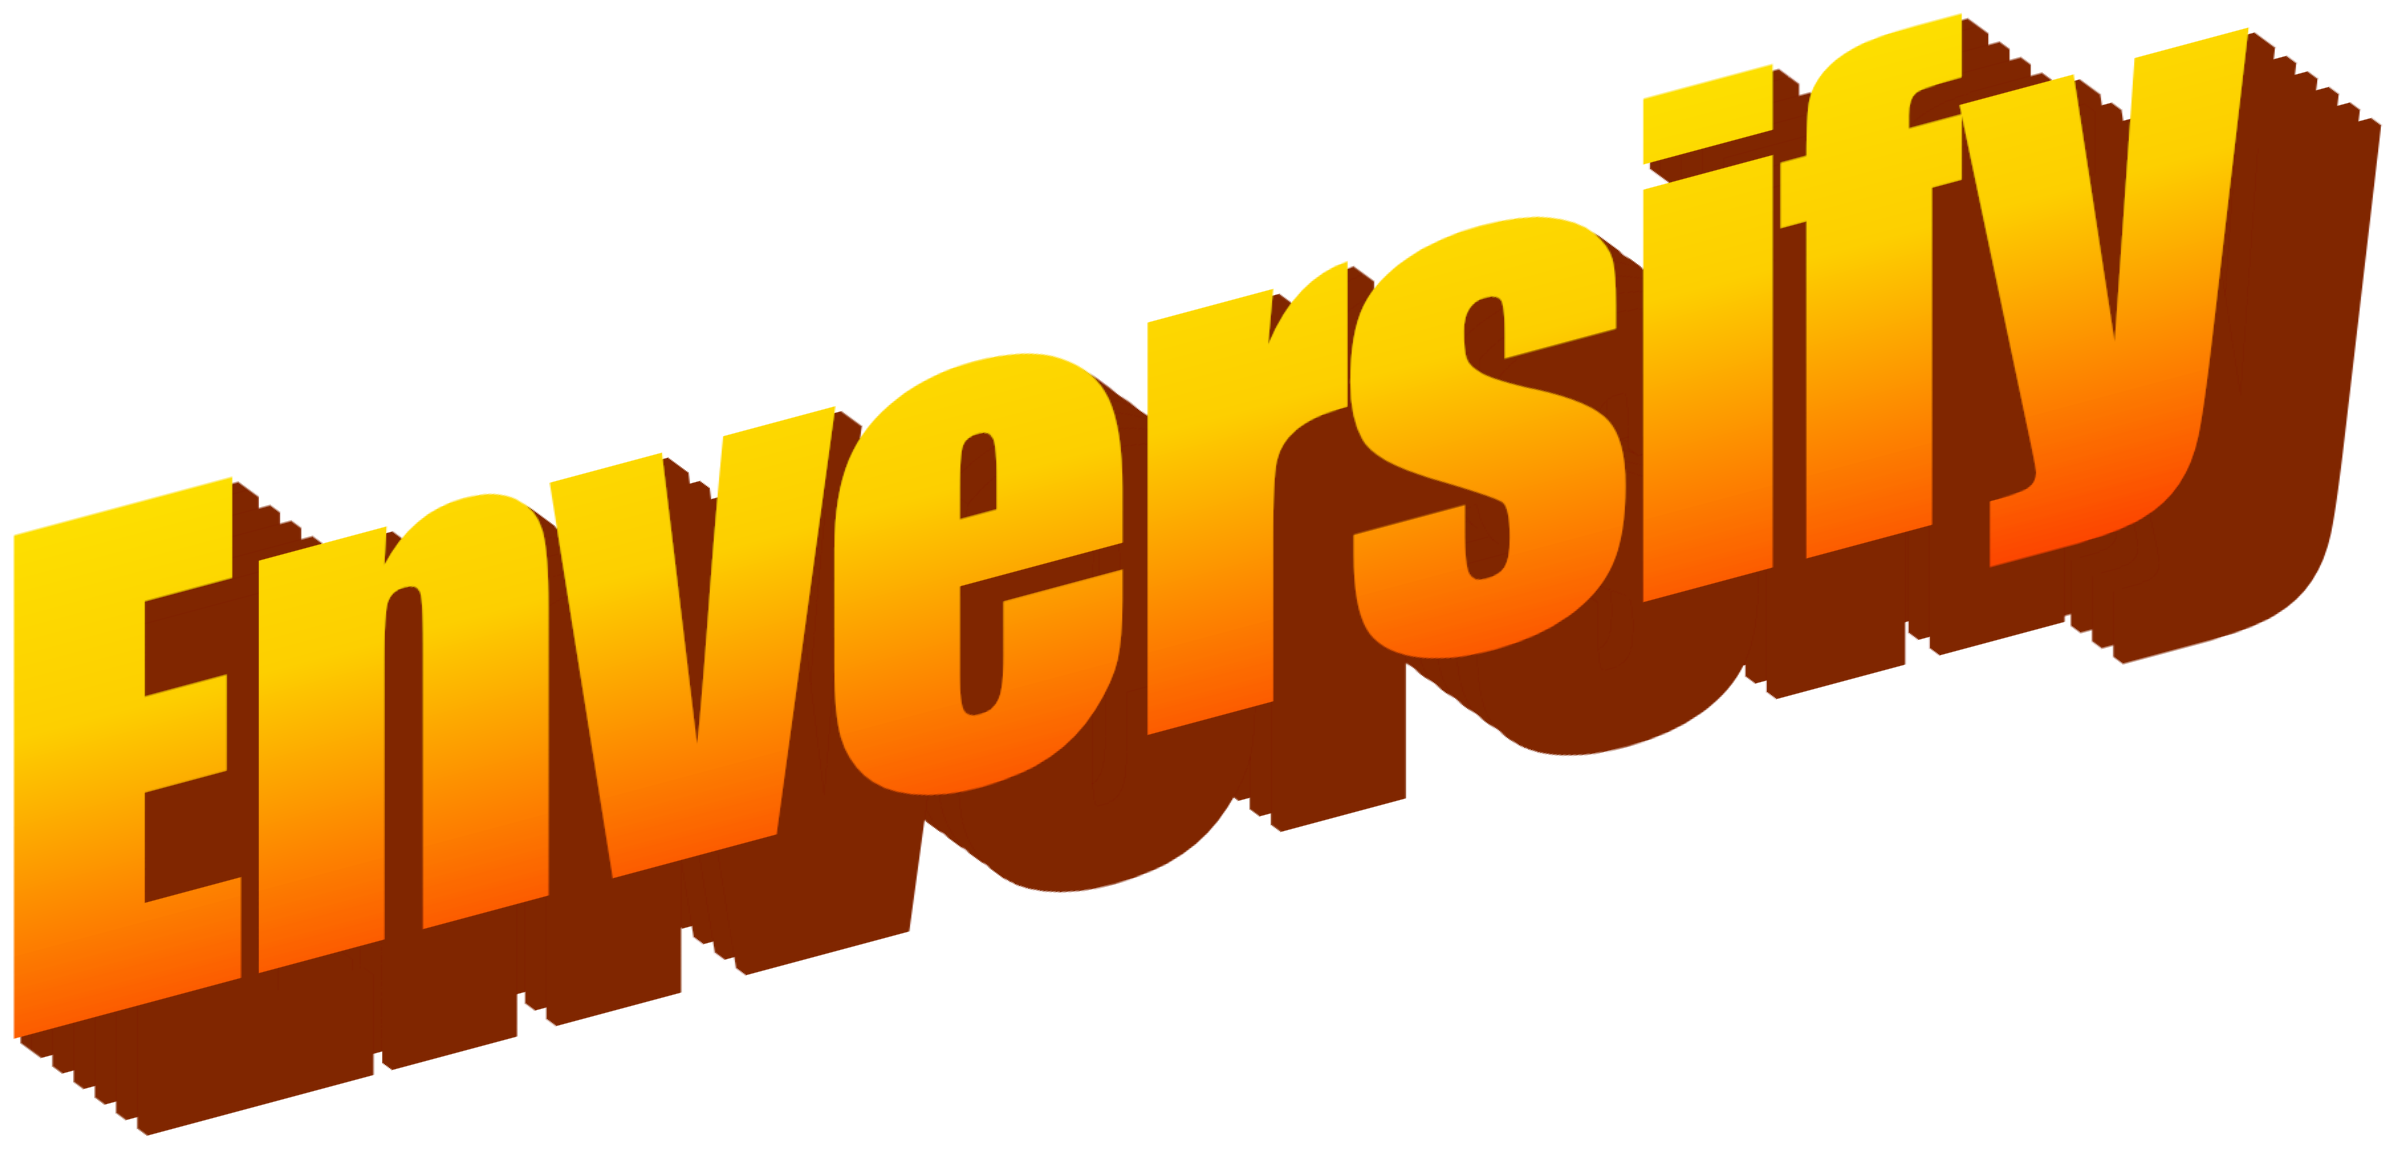
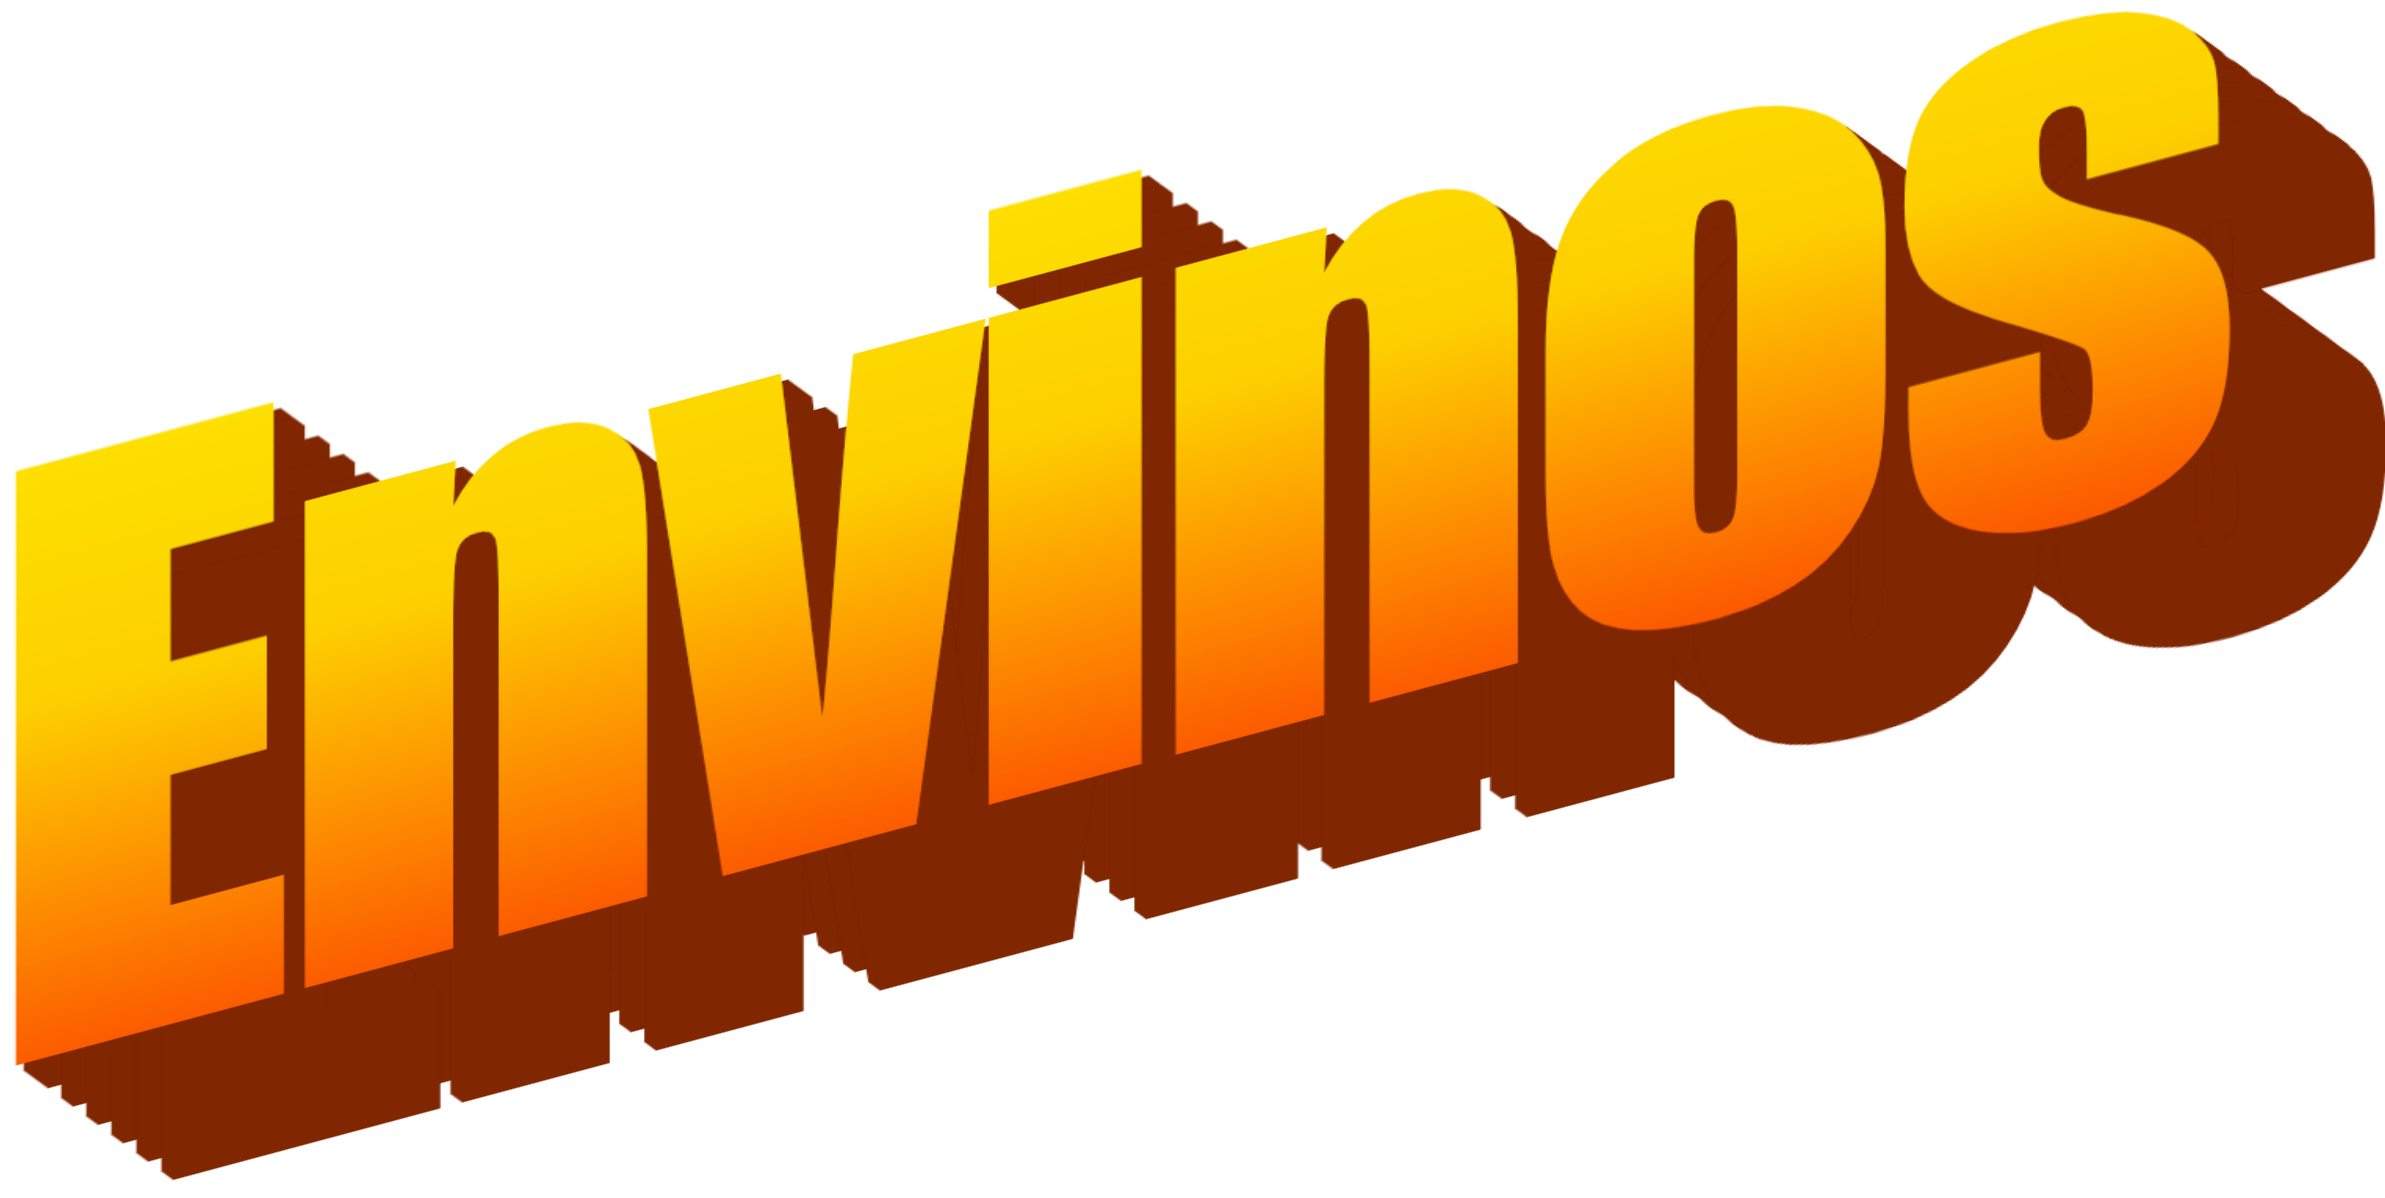
fix: 🐞 remove redundant files and change package name

diff --git a/src/helpers/read-configuration.ts b/src/helpers/read-configuration.ts
@@ -42,7 +42,7 @@ export const readConfiguration = async () => {
 	}
 
 	if (!clientConfiguration.region && !process.env.AWS_REGION) {
-		LoggerService.error('AWS region must be configured via the Enversify configuration file, or from "AWS_REGION" environment variable');
+		LoggerService.error('AWS region must be configured via the Envinos configuration file, or from "AWS_REGION" environment variable');
 
 		process.exit(1);
 	} else if (!clientConfiguration.region) {

diff --git a/src/constants/errors.ts b/src/constants/errors.ts
@@ -1,6 +1,6 @@
 import figures from 'figures';
 import chalk from 'chalk';
 
-export const ERROR_PREFIX = chalk.redBright(`${figures.cross} [Enversify]:`);
+export const ERROR_PREFIX = chalk.redBright(`${figures.cross} [Envinos]:`);
 
-export const WARNING_PREFIX = chalk.yellowBright(`${figures.warning} [Enversify]:`);
+export const WARNING_PREFIX = chalk.yellowBright(`${figures.warning} [Envinos]:`);

diff --git a/src/constants/cosmiconfig.ts b/src/constants/cosmiconfig.ts
@@ -1,7 +1,7 @@
 import os from 'node:os';
 import path from 'node:path';
 
-export const CONFIGURATION_MODULE_NAME = 'enversify';
+export const CONFIGURATION_MODULE_NAME = 'envinos';
 
 export const CONFIGURATION_SEARCH_PLACES = [
 	'package.json',

diff --git a/src/index.ts b/src/index.ts
@@ -17,4 +17,4 @@ await Promise.all(
 	),
 );
 
-export type EnversifyConfig = z.infer<typeof configurationSchema>;
+export type EnvinosConfig = z.infer<typeof configurationSchema>;

diff --git a/bin/index.js b/bin/index.js
@@ -18,7 +18,7 @@ async function onFatalError(error) {
 
 	console.error(`
 Something went wrong! :(
-Enversify: ${version}
+Envinos: ${version}
 ${message}`);
 }
 

diff --git a/README.md b/README.md
@@ -3,17 +3,17 @@
 </p>
 
 <p align="center">
-	<a href="https://github.com/tal-rofe/enversify">
-    	<img src="https://img.shields.io/github/actions/workflow/status/tal-rofe/enversify/integrate.yaml?label=CI&logo=GitHub" alt="CI status">
+	<a href="https://github.com/tal-rofe/envinos">
+    	<img src="https://img.shields.io/github/actions/workflow/status/tal-rofe/envinos/integrate.yaml?label=CI&logo=GitHub" alt="CI status">
   	</a>
-	<a href="https://www.npmjs.com/package/enversify">
-    	<img src="https://img.shields.io/npm/dm/enversify?logo=NPM" alt="npm downloads">
+	<a href="https://www.npmjs.com/package/envinos">
+    	<img src="https://img.shields.io/npm/dm/envinos?logo=NPM" alt="npm downloads">
   	</a>
-	<a href="https://github.com/tal-rofe/enversify">
-    	<img src="https://img.shields.io/npm/l/enversify" alt="npm license">
+	<a href="https://github.com/tal-rofe/envinos">
+    	<img src="https://img.shields.io/npm/l/envinos" alt="npm license">
   	</a>
-	<a href="https://github.com/tal-rofe/enversify">
-    	<img src="https://img.shields.io/npm/v/enversify?label=version" alt="version">
+	<a href="https://github.com/tal-rofe/envinos">
+    	<img src="https://img.shields.io/npm/v/envinos?label=version" alt="version">
   	</a>
 </p>
 
@@ -29,14 +29,14 @@ Sync and share your local environment variables from AWS Secrets Manager service
 To use the package you first need to install it as dev dependency:
 
 ```bash
-npm i -D enversify
+npm i -D envinos
 ```
 
 Then you need to configure your `package.json#scripts` with:
 
 ```json
 {
-	"postinstall": "enversify"
+	"postinstall": "envinos"
 }
 ```
 
@@ -44,19 +44,19 @@ This will automatically sync the environment variables from AWS Secrets Manager 
 
 ## Configuration
 
-You can specify the configuration of Enversify through various options, but one must be provided.
+You can specify the configuration of Envinos through various options, but one must be provided.
 Configuration can be set in the following files (can be configured in home directory or in the root folder of your project):
 
--   a `package.json` property: `"enversify": {...}` or in `~/package.json`, for example
--   a `.enversifyrc` file in JSON or YAML format
--   a `.enversifyrc.json`, `.enversifyrc.yaml`, `.enversifyrc.yml`, `.enversifyrc.js`, or `.enversifyrc.cjs` file
--   a `enversify.config.ts`, `enversify.config.js`, or `enversify.config.cjs` CommonJS module exporting an object
+-   a `package.json` property: `"envinos": {...}` or in `~/package.json`, for example
+-   a `.envinosrc` file in JSON or YAML format
+-   a `.envinosrc.json`, `.envinosrc.yaml`, `.envinosrc.yml`, `.envinosrc.js`, or `.envinosrc.cjs` file
+-   a `envinos.config.ts`, `envinos.config.js`, or `envinos.config.cjs` CommonJS module exporting an object
 
 ### Configuration Options
 
 -   Secrets (**required**): an array of objects, where you configure multiple environment variables files.
--   skipKeyword (**optional**): sometimes, you have some environment variables that should be configured per each developer and not shared. You can set an explicit keyword, so Enversify won't override the variables with this keyword. For example, if you set it to "TODO" and set the value of variable "MY_ENV" in AWS Secrets Manager with value of "TODO" - Enversify won't override this variable "MY_ENV" (which might have been configured manually by the developer).
--   region (**optional**): A valid AWS region - where you store your secrets in the AWS Secrets Manager service. If you don't provide this field, Enversify will fail, **unless** you have `AWS_REGION` configured in the user environment variables.
+-   skipKeyword (**optional**): sometimes, you have some environment variables that should be configured per each developer and not shared. You can set an explicit keyword, so Envinos won't override the variables with this keyword. For example, if you set it to "TODO" and set the value of variable "MY_ENV" in AWS Secrets Manager with value of "TODO" - Envinos won't override this variable "MY_ENV" (which might have been configured manually by the developer).
+-   region (**optional**): A valid AWS region - where you store your secrets in the AWS Secrets Manager service. If you don't provide this field, Envinos will fail, **unless** you have `AWS_REGION` configured in the user environment variables.
 
 <details>
   <summary><b>View JSONSchema of the configuration:</b></summary>
@@ -64,10 +64,10 @@ Configuration can be set in the following files (can be configured in home direc
 ```json
 {
 	"$schema": "http://json-schema.org/draft-07/schema#",
-	"$ref": "#/definitions/enversify",
+	"$ref": "#/definitions/envinos",
 	"definitions": {
-		"enversify": {
-			"description": "Enversify Configuration Schema",
+		"envinos": {
+			"description": "Envinos Configuration Schema",
 			"type": "object",
 			"properties": {
 				"secrets": {

diff --git a/CHANGELOG.md b/CHANGELOG.md
@@ -1,6 +1,5 @@
 # 1.0.0 (2024-09-06)
 
-
 ### Features
 
-* 🔥 support first version of the package ([9d17f08](https://github.com/tal-rofe/enversify/commit/9d17f08d16afb02f6a7a586eecb816c2026bef37))
+-   🔥 support first version of the package ([9d17f08](https://github.com/tal-rofe/envinos/commit/9d17f08d16afb02f6a7a586eecb816c2026bef37))
